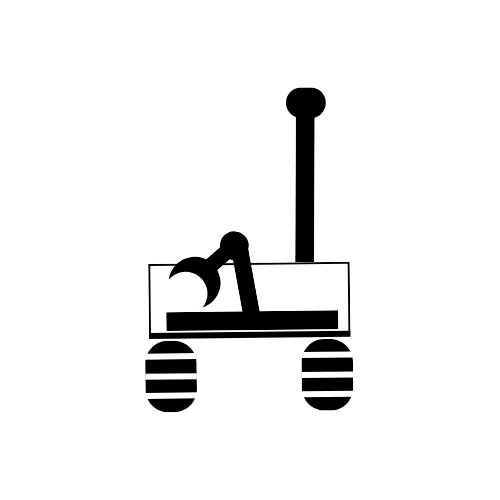
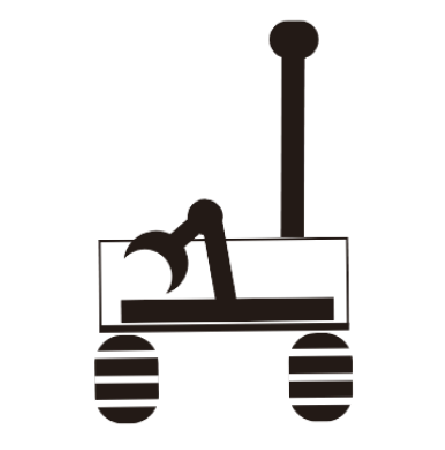
Added the images to the rover health section of the interface. Still need to do formatting and proper aligning

Changed region(s): [[0.2045, 0.0311, 0.818, 0.9644]]

diff --git a/src/styles/telemetry_styles.css b/src/styles/telemetry_styles.css
@@ -6,3 +6,18 @@
     border-style: solid;
     padding: 1rem;
 }
+
+.st-key-rover-wheels {
+    max-height: 450px;
+    max-width: 50%;
+}
+
+.st-key-rover-pitch {
+    max-height: 450px;
+    max-width: 75%;
+}
+
+.st-key-rover-roll {
+    max-height: 450px;
+    max-width: 75%;
+}

diff --git a/sections/rover.py b/sections/rover.py
@@ -5,15 +5,22 @@ def display():
     pitch, roll, wheels, arm, power = st.columns(5)
 
     with pitch:
+        with st.container(key="rover-pitch"):
+            st.image("assets/rover-side-view.png", use_container_width=False)
         st.text("Pitch")
 
     with roll:
+        with st.container(key="rover-roll"):
+            st.image("assets/rover-front-view.png", use_container_width=False)
         st.text("Roll")
 
     with wheels:
+        with st.container(key="rover-wheels"):
+            st.image("assets/rover-wheels.png", use_container_width=False)
         st.text("Wheels")
 
     with arm:
+        st.image("assets/rover-arm.png", use_container_width=False)
         st.text("Arm")
 
     with power:
